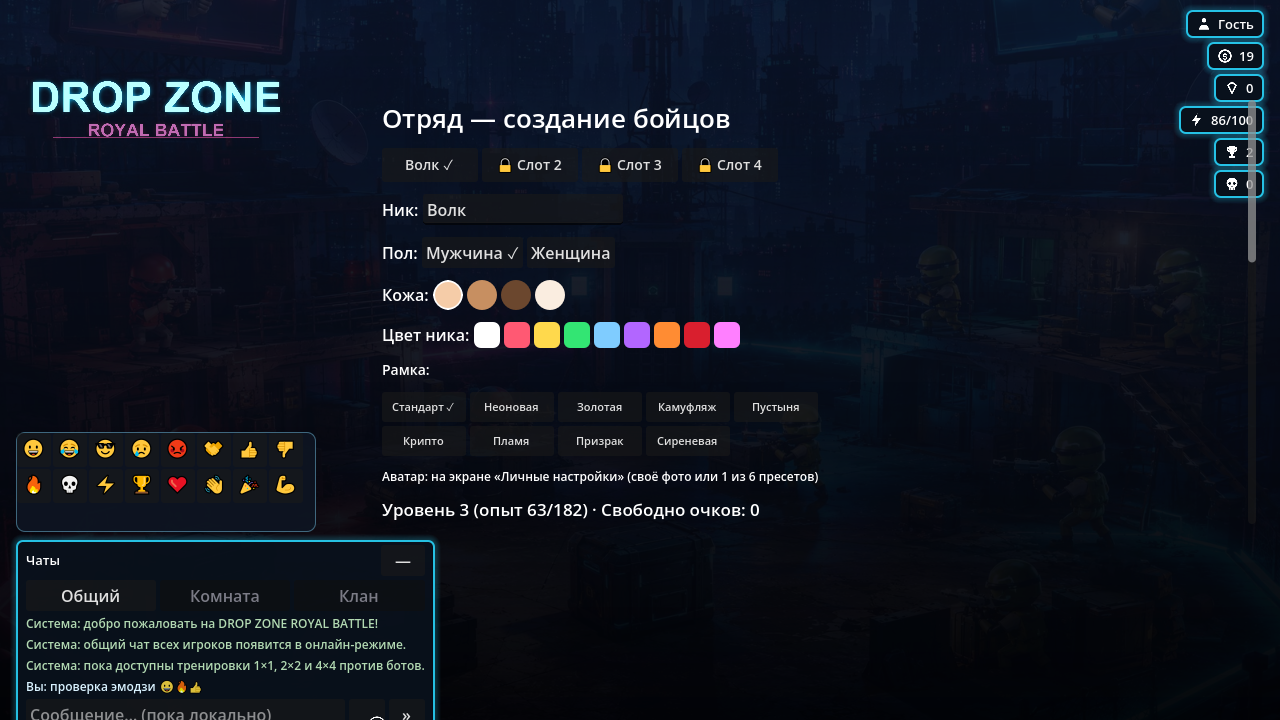
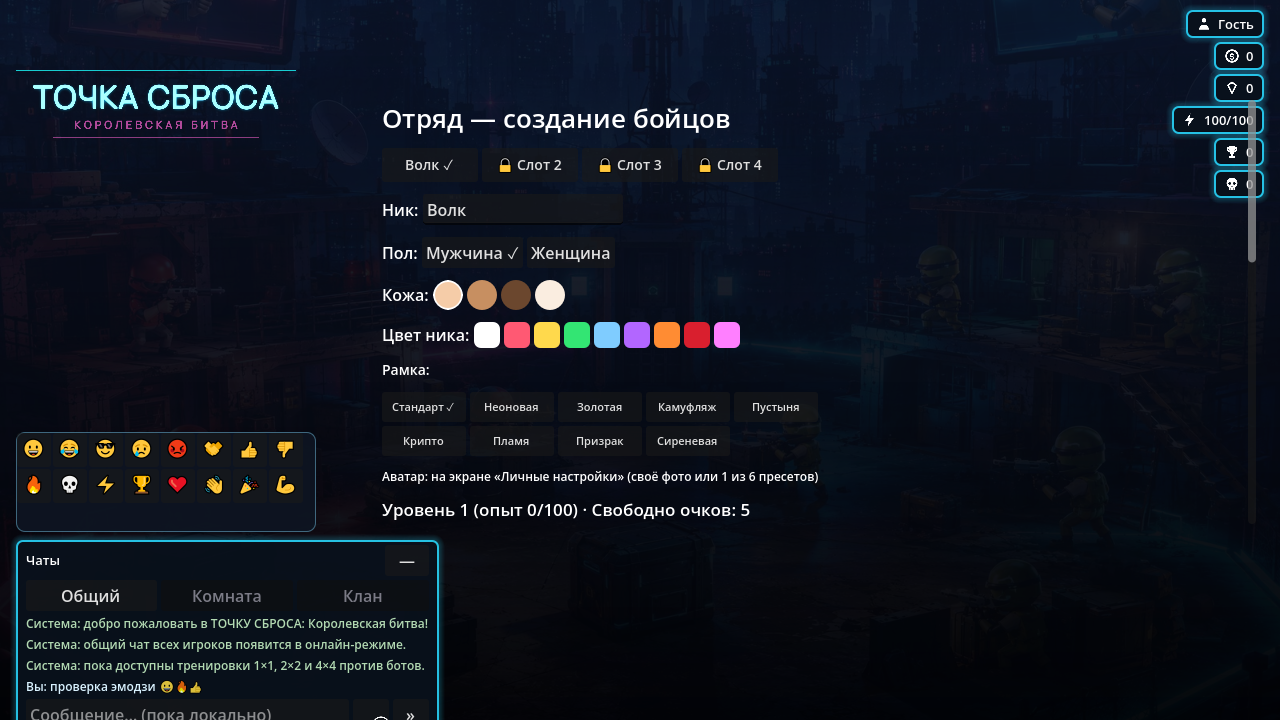
v6.43: ребрендинг — «Точка Сброса: Королевская битва» (новый логотип, загрузка, тексты)

diff --git a/tools/make_logo.py b/tools/make_logo.py
@@ -1,0 +1,43 @@
+# Логотип «ТОЧКА СБРОСА — Королевская битва» в стиле старого (белое + бирюзовое свечение + розовый подзаголовок)
+from PIL import Image, ImageDraw, ImageFont, ImageFilter
+
+W, H = 1200, 300
+FONT = r"G:\Kimi project\Drop Zone\game\assets\fonts\Manrope.ttf"
+OUT = r"G:\Kimi project\Drop Zone\game\assets\ui\logo.png"
+
+img = Image.new("RGBA", (W, H), (0, 0, 0, 0))
+d = ImageDraw.Draw(img)
+
+def draw_tracked(draw, pos, text, font, fill, tracking=0, anchor_center_x=None, stroke_width=0, stroke_fill=None):
+    widths = [draw.textlength(ch, font=font) for ch in text]
+    total = sum(widths) + tracking * (len(text) - 1)
+    x = pos[0] if anchor_center_x is None else anchor_center_x - total / 2
+    y = pos[1]
+    for ch, w in zip(text, widths):
+        draw.text((x, y), ch, font=font, fill=fill, stroke_width=stroke_width, stroke_fill=stroke_fill)
+        x += w + tracking
+    return total
+
+# линии сверху/снизу
+d.rectangle([0, 4, W, 7], fill=(40, 216, 255, 200))
+d.rectangle([160, H - 8, W - 160, H - 5], fill=(255, 60, 110, 200))
+
+f_main = ImageFont.truetype(FONT, 130)
+f_sub = ImageFont.truetype(FONT, 44)
+
+# свечение под основным текстом
+glow = Image.new("RGBA", (W, H), (0, 0, 0, 0))
+dg = ImageDraw.Draw(glow)
+draw_tracked(dg, (0, 30), "ТОЧКА СБРОСА", f_main, (40, 216, 255, 255), tracking=10, anchor_center_x=W / 2, stroke_width=4, stroke_fill=(40, 216, 255, 255))
+glow = glow.filter(ImageFilter.GaussianBlur(9))
+img.alpha_composite(glow)
+
+# основной текст — белый, утолщённый белой обводкой
+d = ImageDraw.Draw(img)
+draw_tracked(d, (0, 28), "ТОЧКА СБРОСА", f_main, (245, 250, 255, 255), tracking=10, anchor_center_x=W / 2, stroke_width=5, stroke_fill=(245, 250, 255, 255))
+
+# подзаголовок — розовый, разрядка
+draw_tracked(d, (0, 208), "КОРОЛЕВСКАЯ БИТВА", f_sub, (255, 60, 110, 255), tracking=16, anchor_center_x=W / 2, stroke_width=2, stroke_fill=(255, 60, 110, 255))
+
+img.save(OUT)
+print("saved", OUT)
